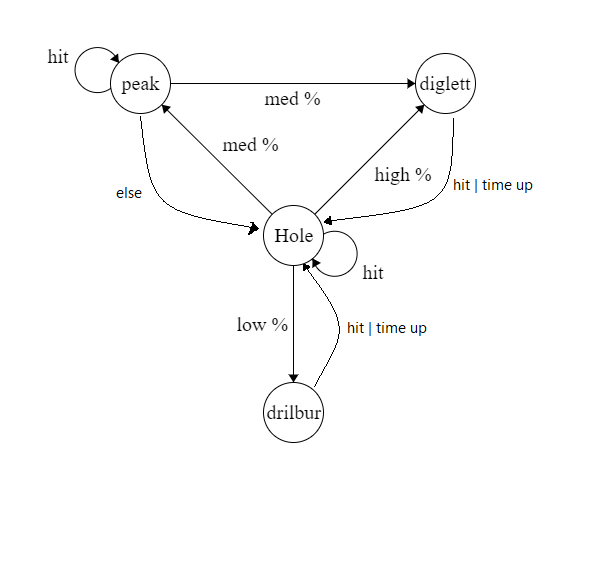
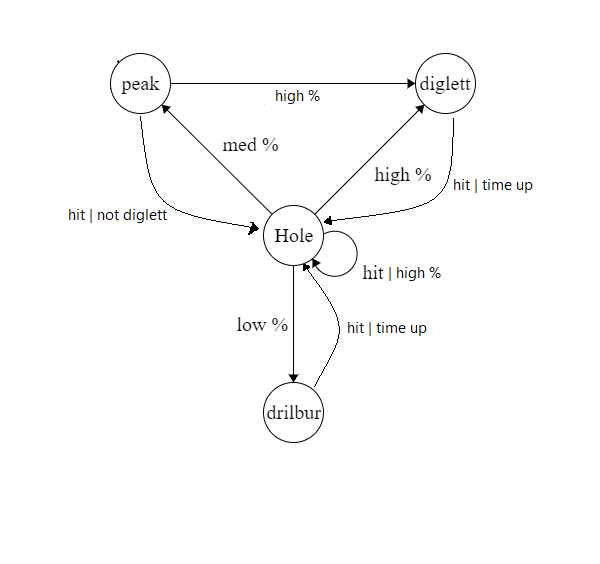
started working on states in hole class

diff --git a/javaScripts/hole.js b/javaScripts/hole.js
@@ -1,3 +1,147 @@
-function Hole() {
+function Hole(id) {
+	//CONSTATNTS
+	//this is the low probability
+	const low = 1;
+	
+	//this is the med probability
+	const med = 15;
+	
+	//this is the high probability
+	const high = 30;
+	
+	//this is the range of numbers that can be generated
+	const maxProb = 100;
+	
+	//this is the element
+	var el = document.getElementById(id);
+	
+	//this is the preset for the hole state
+	const hole = new HoleState();
+	
+	//this is the preset for the peak state
+	const peak = new PeakState();
+	
+	//this is the preset for drilbur state
+	const drilbur = new DrilburState();
+	
+	//this is the preset for the diglett state
+	const diglett = new DiglettState();
+	
+	//FIELDS
+	//this is the currentState. initializes as hole state
+	this.switchState = hole.changeState;
+
+	//METHODS
+	this.updateTime = function() {
+		timeout /= 1.1;
+	}
+	
+	//this gets the id of the hole
+	this.id = function() {
+		return el.id;
+	}
+	
+	//this gets the source of the file
+	this.src = function() {
+		return el.src;
+	}
+	
+	this.setSrc = function(src) {
+		el.src = src;
+	}
+	
+	//THESE ARE THE STATES
+	
+	//this is the hole state
+	function HoleState() {
+		//this is the name of the state;
+		var stateName = "hole";
+		
+		//this gets the state name
+		this.getName = function() {
+			return stateName;
+		}
+		
+		//this has a few options
+		//on hit it remains in hole state
+		//on high random chance it goes to diglet state
+		//on low random chance it goes to drilbur state
+		//on medium random chance it goes to peak state
+		this.changeState = function() {
+			var randomNum = Math.floor(Math.random() * maxProb);
+			console.log(randomNum);
+			randomNum = 5;
+			if (randomNum <= low) {
+				this.switchState = drilbur.changeState;
+				this.setSrc("images/drilbur.png");
+			} else if (randomNum <= med) {
+				this.setSrc("images/diglettPeak.png");
+				peak.toPeakState();
+			} else if (randomNum <= high) {
+				this.switchState = diglett.changeState;
+				this.setSrc("images/diglett.png");
+			}
+		}
+	}
+	
+	function PeakState() {
+		//this is used for when the state is changed into this
+		this.toPeakState = function() {
+			this.switchState = peak.changeState;
+		}
+		
+		//this is the name of the state;
+		var stateName = "peak";
+		
+		//this gets the state name
+		this.getName = function() {
+			return stateName;
+		}
+		
+		//this has a few options
+		//on hit it does nothing
+		//if it does not hit the probability needed to go to diglett state it goes back to hole state
+		this.changeState = function() {
+			console.log(stateName);
+		}
+	}
+	
+	function DrilburState() {
+		//this is the name of the state;
+		var stateName = "drilbur";
+		
+		//this gets the state name
+		this.getName = function() {
+			return stateName;
+		}
+		
+		//this is the timeout specifically for drilbur
+		//this has a few options
+		//on a hit it goes into hole state and updates the user score
+		//on a timeout it goes into the hole state
+		this.changeState = function() {
+			var drilburTimeout = timeout / 2;
+			console.log(stateName);
+		}
+		
+		
+	}
+	
+	function DiglettState() {
+		//this is the name of the state;
+		var stateName = "diglett";
+		
+		//this gets the state name
+		this.getName = function() {
+			return stateName;
+		}
+		
+		//this has a few options
+		//on a hit it goes into hole state and updates the user score
+		//on a timeout it goes into the hole state
+		this.changeState = function() {
+			console.log(stateName);
+		}
+	}
 	
 }

diff --git a/index.html b/index.html
@@ -8,12 +8,14 @@
 		<!-- these are my style sheets -->
 		<link rel="stylesheet" href="styleSheets/header.css">
 		<link rel="stylesheet" href="styleSheets/start.css">
+		<link rel="stylesheet" href="styleSheets/game.css">
 		<link rel="stylesheet" href="styleSheets/main.css">
 		
 		<!-- these are the javascripts -->
 		<script src="javaScripts/game.js"/></script>
 		<script src="javaScripts/header.js"/></script>
 		<script src="javaScripts/start.js"/></script>
+		<script src="javaScripts/hole.js"/></script>
 	</head>
 	<body>
 		<!-- THIS IS THE HEADER -->
@@ -21,8 +23,9 @@
 			<center>
 				<img id="logo" src="images/logo.png"></img>
 				<br>
-				<div class="highScore">High Score: <span class="highScore" id="highScore">0</span></div>
-				<div><!--hidden until game start--></div>
+				<span class="header">High Score: <span id="highScore">0</span></span>
+				<span class="header headerGame">time: <span id="time">0</span></span>
+				<span class="header headerGame">Score: <span id="currentScore">0</span></span>
 			</center>
 		</header>
 	
@@ -41,7 +44,31 @@
 		
 		<!--THIS IS THE GAME-->
 		<main id="game" style="display: none">
-			hidden
+			<center>
+				<div>
+					<img id="0" class="hole" src="images/hole.png"></img>
+					<img id="1" class="hole" src="images/hole.png"></img>
+					<img id="2" class="hole" src="images/hole.png"></img>
+				</div>
+				<div>
+					<img id="3" class="hole" src="images/hole.png"></img>
+					<img id="4" class="hole" src="images/hole.png"></img>
+				</div>
+				<div>
+					<img id="5" class="hole" src="images/hole.png"></img>
+					<img id="6" class="hole" src="images/hole.png"></img>
+					<img id="7" class="hole" src="images/hole.png"></img>
+				</div>
+				<div>
+					<img id="8" class="hole" src="images/hole.png"></img>
+					<img id="9" class="hole" src="images/hole.png"></img>
+				</div>
+				<div>
+					<img id="10" class="hole" src="images/hole.png"></img>
+					<img id="11" class="hole" src="images/hole.png"></img>
+					<img id="12" class="hole" src="images/hole.png"></img>
+				</div>
+			</center>
 		</main>
 	</body>
 </html>

diff --git a/javaScripts/game.js b/javaScripts/game.js
@@ -1,5 +1,26 @@
 //this is the js for the game
+
+//this is used for the timeout for when something pops up
+var timeout = 1000;
+
+
 function startGame() {
 	document.getElementById("game").style.display = "";
 	document.getElementById("start").style.display = "none";
+	document.getElementsByClassName("headerGame")[0].style.display = "initial"; //turns on the time
+	document.getElementsByClassName("headerGame")[1].style.display = "initial"; //turns on the current score
+	
+	holes = getHoles("hole");
+}
+
+//this is used to get an array of holes
+function getHoles(className) {
+	var holes = document.getElementsByClassName(className);
+	var holesObj = [];
+	
+	for (var i = 0; i < holes.length; i++) {
+		holesObj[i] = new Hole(i);
+	}
+	
+	return holesObj;
 }

diff --git a/javaScripts/start.js b/javaScripts/start.js
@@ -1,10 +1,12 @@
 //on load start flashing the start text
 window.onload = startMenu;
 
+//this method is the main start method it starts all the mobile content on the start
 function startMenu() {
 	blinkStart();
 	setInterval(cycleHoles, 800);
 	
+	//this randomly switches the hole to show new diglett position never will have more then 1
 	function cycleHoles() {
 		var holes = document.getElementsByClassName("startHole");
 		var run = true;
@@ -38,6 +40,7 @@ function startMenu() {
 		}
 	}
 	
+	//this causes the click anywhere to start text to blink
 	function blinkStart() {
 	   var f = document.getElementById('clickStart');
 	   setInterval(function() {

diff --git a/styleSheets/main.css b/styleSheets/main.css
@@ -1,5 +1,7 @@
-body {
+ /* this is the overarching style sheet that affects everything */
+ body {
 	background-image: url("../images/grass.png");
 	color: red;
 	font-weight: bold;
+	overflow: hidden;
 }

diff --git a/styleSheets/header.css b/styleSheets/header.css
@@ -1,10 +1,12 @@
+/* this is used to modify the header */
 #logo {
 min-height: 40%;
 max-height: 15em;
 }
 
-.highScore {
+.header {
 	font-size: xxx-large;
+	padding: 5px;
 }
 
 #header{

diff --git a/styleSheets/game.css b/styleSheets/game.css
@@ -1,0 +1,8 @@
+/* this is the style for the game aspect */
+.hole {
+	max-width: 30%;
+}
+
+.headerGame {
+	display: none;
+}

diff --git a/styleSheets/start.css b/styleSheets/start.css
@@ -1,3 +1,4 @@
+/* this style sheet is used to modify anything on the start screen */
 #start {
 	font-size: xxx-large;
 }
